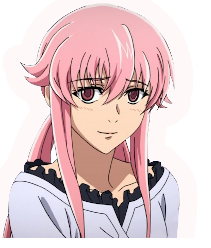
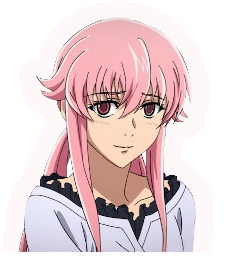
Updated Yuno's Sticker

diff --git a/themes/gasai_yuno.user.css b/themes/gasai_yuno.user.css
@@ -81,12 +81,12 @@
 
     .suggester li:hover .octicon,
     .suggester li[aria-selected="true"] .octicon {
-      fill: #f6c4d3;
+      fill: #1a081a;
     }
 
     .suggester li:hover small,
     .suggester li[aria-selected="true"] small {
-      color: #f6c4d3;
+      color: #1a081a;
     }
 
     ::-webkit-input-placeholder {
@@ -123,7 +123,7 @@
     }
     body::before {
     content:'';pointer-events:none;position:fixed;z-index:9001;width:100%;height:100%;background-position:100% 100%;background-repeat:no-repeat;opacity:1;
-    background-image: url('https://raw.githubusercontent.com/doki-theme/doki-theme-github/master/assets/stickers/futureDiary/yuno/dark/yuno_dark.png');
+    background-image: url('https://raw.githubusercontent.com/doki-theme/doki-theme-github/v11Themes/assets/stickers/futureDiary/yuno/dark/yuno_dark.png');
     }
 
     .UnderlineNav {
@@ -149,7 +149,7 @@
     }
 
     .btn-primary .octicon {
-      fill: #f6c4d3 !important;
+      fill: #1a081a !important;
     }
 
     .btn-primary:active {
@@ -13540,7 +13540,7 @@
   .suggester li.navigation-focus, .suggester li:hover,
   .suggester li[aria-selected="true"] {
     background: /*[[base-color]]*/ #ffa0b2;
-    color: #f6c4d3;
+    color: #1a081a;
     background-image: none;
   }
   /* source #9: "#fff" */
@@ -14666,7 +14666,7 @@
       background-color: #602b50;
       background-image: linear-gradient(-180deg, #602b50 0%, #602b50 90%);
       border-color: none !important;
-      color: #f6c4d3 !important;
+      color: #1a081a !important;
     }
   /* source #14: "#e9ecef", "none", "rgba(27,31,35,0.35)" */
   .btn.selected, .btn:active, .btn[aria-selected="true"], [open] > .btn {
@@ -14685,7 +14685,7 @@
   /* source #14: "#28a745", "#28a745" */
   .btn-primary {
     background-color: #ffa0b2;
-    color: #f6c4d3 !important;
+    color: #1a081a !important;
     background-image: linear-gradient(-180deg, #ffa0b2 0%, #ffa0b2 90%);
   }
   /* source #14: "box-shadow: 0 0 0 .2em rgba(52,208,88,.4)" */
@@ -15936,7 +15936,7 @@
   /* source #14: "#0366d6" */
   .dropdown-item:focus, .dropdown-item:hover {
     background-color: /*[[base-color]]*/ #ffa0b2;
-    color: #f6c4d3;
+    color: #1a081a;
     background-image: none;
   }
   /* source #14: "none" */
@@ -17952,7 +17952,7 @@ html[prefix] .site-header-nav .dropdown-menu a:hover {
 .filter-item.selected p, .filter-item:hover .marketplace-plan-per-time,
 .feature-preview-dialog .text-white,
 .oauth-permissions-details .permission-summary em.highlight, .btn-primary {
-    color: #f6c4d3;
+    color: #1a081a;
 }
 ul.repo-stats li a:hover, .minibutton.danger:hover, #gist-form label,
 .subnav li a:hover, .filters li.selected a, .filters li a:hover, .code-list em,

diff --git a/themes/hayase_nagatoro.user.css b/themes/hayase_nagatoro.user.css
@@ -123,7 +123,7 @@
     }
     body::before {
     content:'';pointer-events:none;position:fixed;z-index:9001;width:100%;height:100%;background-position:100% 100%;background-repeat:no-repeat;opacity:1;
-    background-image: url('https://raw.githubusercontent.com/doki-theme/doki-theme-github/master/assets/stickers/dontToyWithMeMiss/nagatoro/dark/nagatoro_dark.png');
+    background-image: url('https://raw.githubusercontent.com/doki-theme/doki-theme-github/v11Themes/assets/stickers/dontToyWithMeMiss/nagatoro/dark/nagatoro_dark.png');
     }
 
     .UnderlineNav {

diff --git a/themes/monika_dark.user.css b/themes/monika_dark.user.css
@@ -123,7 +123,7 @@
     }
     body::before {
     content:'';pointer-events:none;position:fixed;z-index:9001;width:100%;height:100%;background-position:100% 100%;background-repeat:no-repeat;opacity:1;
-    background-image: url('https://raw.githubusercontent.com/doki-theme/doki-theme-github/master/assets/stickers/literature/monika/dark/just_monika_dark.png');
+    background-image: url('https://raw.githubusercontent.com/doki-theme/doki-theme-github/v11Themes/assets/stickers/literature/monika/dark/just_monika_dark.png');
     }
 
     .UnderlineNav {

diff --git a/themes/asuna_light.user.css b/themes/asuna_light.user.css
@@ -123,7 +123,7 @@
     }
     body::before {
     content:'';pointer-events:none;position:fixed;z-index:9001;width:100%;height:100%;background-position:100% 100%;background-repeat:no-repeat;opacity:1;
-    background-image: url('https://raw.githubusercontent.com/doki-theme/doki-theme-github/master/assets/stickers/swordArtOnline/asuna/light/asuna_light.png');
+    background-image: url('https://raw.githubusercontent.com/doki-theme/doki-theme-github/v11Themes/assets/stickers/swordArtOnline/asuna/light/asuna_light.png');
     }
 
     .UnderlineNav {

diff --git a/themes/darkness_light.user.css b/themes/darkness_light.user.css
@@ -123,7 +123,7 @@
     }
     body::before {
     content:'';pointer-events:none;position:fixed;z-index:9001;width:100%;height:100%;background-position:100% 100%;background-repeat:no-repeat;opacity:1;
-    background-image: url('https://raw.githubusercontent.com/doki-theme/doki-theme-github/master/assets/stickers/konoSuba/darkness/light/darkness_light.png');
+    background-image: url('https://raw.githubusercontent.com/doki-theme/doki-theme-github/v11Themes/assets/stickers/konoSuba/darkness/light/darkness_light.png');
     }
 
     .UnderlineNav {

diff --git a/themes/hanekawa_tsubasa.user.css b/themes/hanekawa_tsubasa.user.css
@@ -123,7 +123,7 @@
     }
     body::before {
     content:'';pointer-events:none;position:fixed;z-index:9001;width:100%;height:100%;background-position:100% 100%;background-repeat:no-repeat;opacity:1;
-    background-image: url('https://raw.githubusercontent.com/doki-theme/doki-theme-github/master/assets/stickers/monogatari/hanekawa/dark/hanekawa_dark.png');
+    background-image: url('https://raw.githubusercontent.com/doki-theme/doki-theme-github/v11Themes/assets/stickers/monogatari/hanekawa/dark/hanekawa_dark.png');
     }
 
     .UnderlineNav {

diff --git a/themes/nakano_miku.user.css b/themes/nakano_miku.user.css
@@ -123,7 +123,7 @@
     }
     body::before {
     content:'';pointer-events:none;position:fixed;z-index:9001;width:100%;height:100%;background-position:100% 100%;background-repeat:no-repeat;opacity:1;
-    background-image: url('https://raw.githubusercontent.com/doki-theme/doki-theme-github/master/assets/stickers/quintuplets/miku/dark/nakano_miku_dark.png');
+    background-image: url('https://raw.githubusercontent.com/doki-theme/doki-theme-github/v11Themes/assets/stickers/quintuplets/miku/dark/nakano_miku_dark.png');
     }
 
     .UnderlineNav {

diff --git a/themes/asuna_dark.user.css b/themes/asuna_dark.user.css
@@ -123,7 +123,7 @@
     }
     body::before {
     content:'';pointer-events:none;position:fixed;z-index:9001;width:100%;height:100%;background-position:100% 100%;background-repeat:no-repeat;opacity:1;
-    background-image: url('https://raw.githubusercontent.com/doki-theme/doki-theme-github/master/assets/stickers/swordArtOnline/asuna/dark/asuna_dark.png');
+    background-image: url('https://raw.githubusercontent.com/doki-theme/doki-theme-github/v11Themes/assets/stickers/swordArtOnline/asuna/dark/asuna_dark.png');
     }
 
     .UnderlineNav {

diff --git a/themes/darkness_dark.user.css b/themes/darkness_dark.user.css
@@ -123,7 +123,7 @@
     }
     body::before {
     content:'';pointer-events:none;position:fixed;z-index:9001;width:100%;height:100%;background-position:100% 100%;background-repeat:no-repeat;opacity:1;
-    background-image: url('https://raw.githubusercontent.com/doki-theme/doki-theme-github/master/assets/stickers/konoSuba/darkness/dark/darkness_dark.png');
+    background-image: url('https://raw.githubusercontent.com/doki-theme/doki-theme-github/v11Themes/assets/stickers/konoSuba/darkness/dark/darkness_dark.png');
     }
 
     .UnderlineNav {

diff --git a/themes/natsuki_dark.user.css b/themes/natsuki_dark.user.css
@@ -123,7 +123,7 @@
     }
     body::before {
     content:'';pointer-events:none;position:fixed;z-index:9001;width:100%;height:100%;background-position:100% 100%;background-repeat:no-repeat;opacity:1;
-    background-image: url('https://raw.githubusercontent.com/doki-theme/doki-theme-github/master/assets/stickers/literature/natsuki/dark/natsuki_dark.png');
+    background-image: url('https://raw.githubusercontent.com/doki-theme/doki-theme-github/v11Themes/assets/stickers/literature/natsuki/dark/natsuki_dark.png');
     }
 
     .UnderlineNav {

diff --git a/themes/mioda_ibuki_light.user.css b/themes/mioda_ibuki_light.user.css
@@ -123,7 +123,7 @@
     }
     body::before {
     content:'';pointer-events:none;position:fixed;z-index:9001;width:100%;height:100%;background-position:100% 100%;background-repeat:no-repeat;opacity:1;
-    background-image: url('https://raw.githubusercontent.com/doki-theme/doki-theme-github/master/assets/stickers/danganronpa/ibuki/light/ibuki_light.png');
+    background-image: url('https://raw.githubusercontent.com/doki-theme/doki-theme-github/v11Themes/assets/stickers/danganronpa/ibuki/light/ibuki_light.png');
     }
 
     .UnderlineNav {

diff --git a/themes/monika_light.user.css b/themes/monika_light.user.css
@@ -123,7 +123,7 @@
     }
     body::before {
     content:'';pointer-events:none;position:fixed;z-index:9001;width:100%;height:100%;background-position:100% 100%;background-repeat:no-repeat;opacity:1;
-    background-image: url('https://raw.githubusercontent.com/doki-theme/doki-theme-github/master/assets/stickers/literature/monika/light/just_monika.png');
+    background-image: url('https://raw.githubusercontent.com/doki-theme/doki-theme-github/v11Themes/assets/stickers/literature/monika/light/just_monika.png');
     }
 
     .UnderlineNav {
